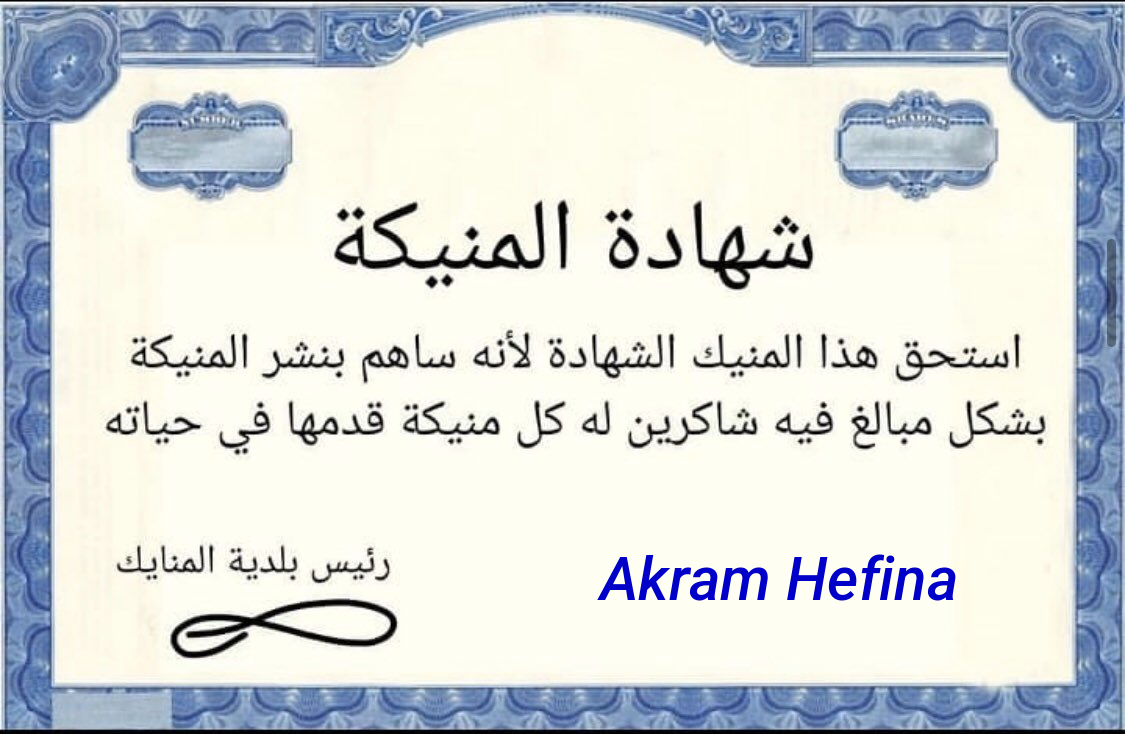
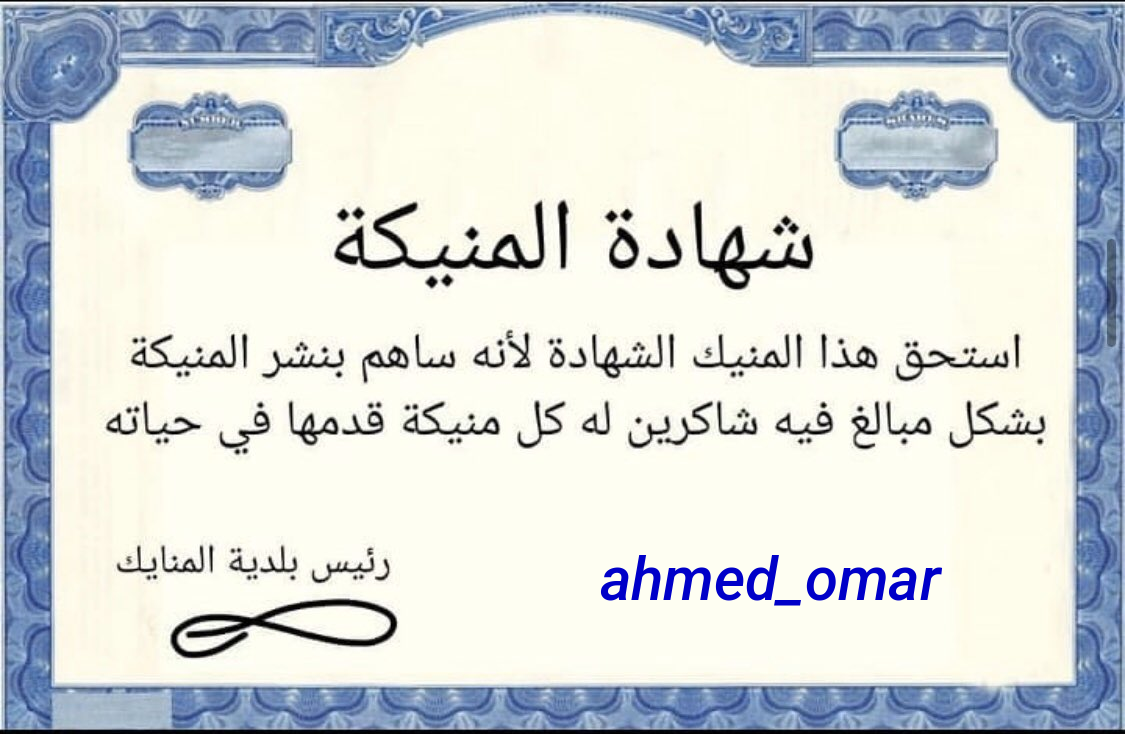
sorry not sorry

Changed region(s): [[0.5289, 0.7493, 0.8711, 0.8392]]

diff --git a/public/view/landingPage/hero.html b/public/view/landingPage/hero.html
@@ -18,7 +18,7 @@
                             </a>
                         </li>
                         <li>
-                            <a href=".?page=challenges" rel="nofollow noopener" class="ud-main-btn ud-link-btn">
+                            <a href=".?page=challenges&challengeId=1" rel="nofollow noopener" class="ud-main-btn ud-link-btn">
                                 Solve some challenges <i class="lni lni-arrow-right"></i>
                             </a>
                         </li>

diff --git a/public/view/login/signupForm.html b/public/view/login/signupForm.html
@@ -34,7 +34,7 @@
           </form>
 
           <p class="signup-option">
-            Already a member <a href="./page='login'"> Login </a>
+            Already a member <a href="./?page=login"> Login </a>
           </p>
         </div>
       </div>

diff --git a/public/view/index.html b/public/view/index.html
@@ -1,5 +1,3 @@
-
-
 <!DOCTYPE html>
 <html lang="en">
   <head>

diff --git a/controller/loginController.php b/controller/loginController.php
@@ -4,30 +4,58 @@ class loginController
 {
     public function defaultAction()
     {
+        // Start session if not already started
+        if (session_status() == PHP_SESSION_NONE) {
+            session_start();
+        }
+
+        // Display the login page
         $template = new template('index');
         $template->viewPage('login', ["loginForm"], []);
-        if($_POST['postAction'] ?? 0 == 1) {
+
+        // Check if the login form was submitted
+        if ($_POST['postAction'] ?? 0 == 1) {
             $this->loginAction();
         }
     }
 
     function loginAction()
     {
-        if ($_POST['postAction'] ?? 0 == 1) {
-            $username = $_POST['username'] ?? '';
-            $password = $_POST['password'] ?? '';
-
-            $auth = new auth();
-            if ($auth->checkLogin($username, $password)) {
-                $_SESSION['user_login'] = 1;
-//                header('Location: ./index.php?page=challenges');
-                echo "password  match";
-
-                exit();
-            }else{
-                echo "user not found";
-            }
-
+        // Start session if not already started
+        if (session_status() == PHP_SESSION_NONE) {
+            session_start();
         }
+
+        // Check if the form was submitted
+        if ($_POST['postAction'] ?? 0 == 1) {
+            // Retrieve and sanitize user inputs
+            $username = htmlspecialchars(trim($_POST['username'] ?? ''));
+            $password = htmlspecialchars(trim($_POST['password'] ?? ''));
+
+            // Store the username in the session
+            $_SESSION['userName'] = $username;
+
+            // Initialize authentication class
+            $auth = new auth();
+
+            // Check credentials
+            if ($auth->checkLogin($username, $password)) {
+//                // Login successful, set session and redirect
+
+                $dbh = DatabaseConnection::getInstance();
+                $dbc = $dbh->getConnection();
+
+                $userObj = new user($dbc);
+                $userObj->findBy('username', $username);
+                $_SESSION['userId'] = $userObj->id;
+
+                header('Location: http://localhost:63342/koshary.codes/public/?page=challenges&challengeId=1');
+                exit(); // Ensure immediate exit after redirect
+            } else {
+                // Generic error message to avoid hinting at whether username or password was incorrect
+                echo "Invalid credentials, please try again.";
+            }
+        }
+        ob_end_flush();
     }
 }

diff --git a/controller/chllengesController.php b/controller/chllengesController.php
@@ -3,10 +3,14 @@
 class chllengesController {
 
 
+    private user $userObj;
+
     public function defaultAction($id){
 
         $dbh = DatabaseConnection::getInstance();
         $dbc = $dbh->getConnection();
+        $this->userObj = new user($dbc);
+        $this->userObj->findBy('id', $_SESSION['userId']);
 
         $challengeObj = new challenges($dbc);
         $challengeObj->findBy('id', $id);
@@ -17,7 +21,7 @@ class chllengesController {
         $template->viewPage('challenges',["challengeNavbar","codeSnippet"], $variabels);
 
         $this->solutionHandel($challengeObj);
-        if($_SESSION['challengesSoleved'] == 1){
+        if($this->userObj->points == 30){
             $this->createCertificate();
         }
     }
@@ -28,8 +32,9 @@ class chllengesController {
             $solutionLine = htmlspecialchars($_POST['solutionLine']);
             $solutionType = htmlspecialchars($_POST['solutionType']);
             if($solutionLine== $challengeObj->solution){
-                $_SESSION['challengesSoleved'] += 1;
-                echo "challenges solved = ".$_SESSION['challengesSoleved'];
+//                $_SESSION['challengesSoleved'] += 1;
+                $this->userObj->increasePoints(10);
+                echo "challenges solved = ". $this->userObj->points . "<br>";
                 echo "<div class=\"row text-center \">
                       <div class=\" col-md-4 \" >
                       </div>
@@ -63,7 +68,7 @@ class chllengesController {
         $image = imagecreatefrompng("./view/assets/images/CERT.png");
         $color = imagecolorallocate($image, 0, 0, 200);
         $font = './roboto.ttf';
-        $text = 'Akram Hefina';
+        $text = $_SESSION['userName'];
         $maxWidth = 500;
         if (strlen($text) > $maxWidth) {
             $text = substr($text, 0, $maxWidth) . "...";

diff --git a/model/user.php b/model/user.php
@@ -9,11 +9,30 @@ class user extends Entity {
     public $solvedChallenges;
     public $points;
 
+
     public function __construct($dbc){
         parent::__construct($dbc, 'user');
+
     }
 
     public function initFields(){
         $this->fields = ['id', 'username', 'password', 'solvedChallenges', 'points'];
+//        $this->findBy('id',$this->id);
+    }
+
+    public function increasePoints($points){
+        // Update points and solved challenges
+        $this->points += $points;
+        $this->solvedChallenges += 1;
+
+        // Prepare the SQL statement with placeholders
+        $stmt = $this->dbc->prepare('UPDATE user SET points = ?, solvedChallenges = ? WHERE username = ?');
+
+        // Execute the statement with the bound parameters
+        $stmt->execute([$this->points, $this->solvedChallenges, $this->username]);
+    }
+
+    public function increaseSolvedChallenges(){
+
     }
 }

diff --git a/controller/signupController.php b/controller/signupController.php
@@ -25,6 +25,8 @@ class signupController
 
             $stmt = $dbc->prepare('INSERT INTO user (username, password) VALUES (?,  ?)');
             if ($stmt->execute([$username, $password])) {
+                //redierct to ./?page=login after signup
+                header('Location: ./index.php?page=login');
                 return 'User registered successfully!';
             } else {
                 return 'Error occurred during registration.';

diff --git a/public/index.php b/public/index.php
@@ -1,6 +1,7 @@
 <?php
 
 session_start();
+ob_start();
 $_SESSION['challengesSoleved'] = 0;
 define('ROOT_PATH', dirname(__FILE__) . DIRECTORY_SEPARATOR );
 define('VIEW_PATH', ROOT_PATH . 'view' . DIRECTORY_SEPARATOR);

diff --git a/src/databaseConnection.php b/src/databaseConnection.php
@@ -31,7 +31,7 @@ class databaseConnection
     {
     }
 
-    private function __wakeup()
+    public function __wakeup()
     {
     }
 }
